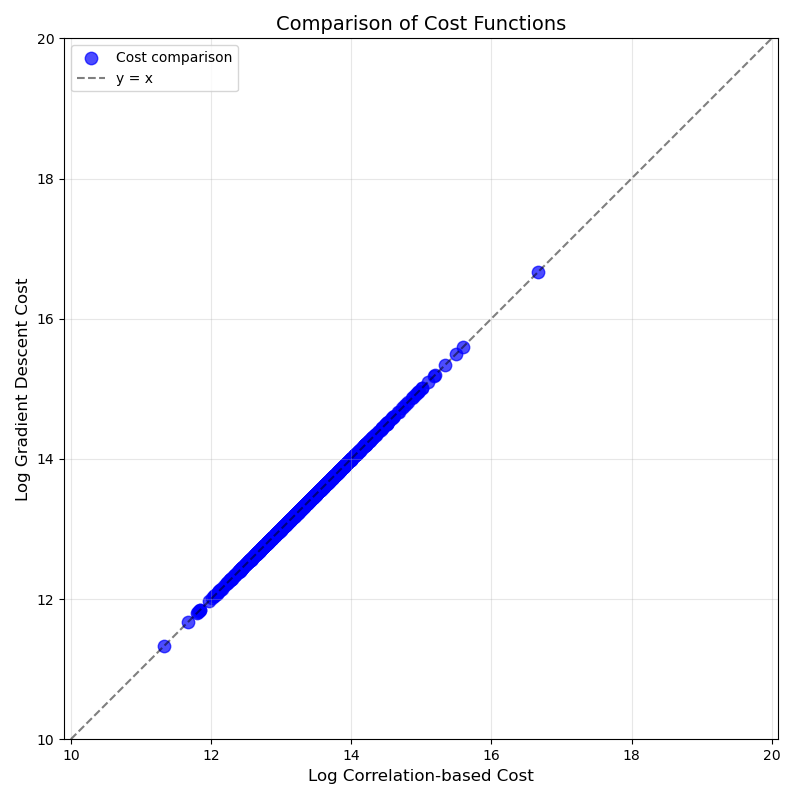
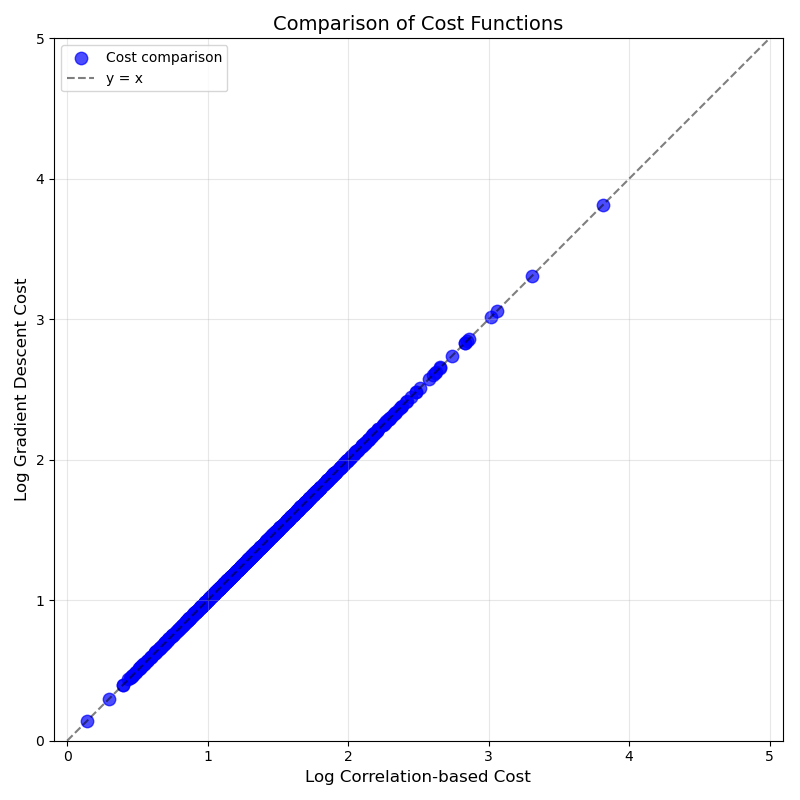
rescaling

diff --git a/simulations/make_figure.py b/simulations/make_figure.py
@@ -5,6 +5,7 @@ import ecoattention.memory as memory
 from generate import SyntheticDataGenerator
 import matplotlib.pyplot as plt
 from mpl_toolkits.axes_grid1 import make_axes_locatable
+
 # Set the random seed for reproducibility
 torch.manual_seed(42)
 L = 100
@@ -14,7 +15,7 @@ generator = SyntheticDataGenerator(
     D_v=10, 
     D_k=10, 
     rho=0.5, 
-    sim=0.5, 
+    sim=0.9, 
     device='cpu'
 )
 
@@ -49,11 +50,12 @@ lotka_volterra_memory.compute_ecological_params()
 replicator_memory.compute_correlations(Q, V)
 replicator_memory.compute_ecological_params()
 
-fit_steps = 100000
-losses = gradient_descent_memory.fit(Q, V, lr=1e-6, n_steps=fit_steps)
-corr_loss = correlation_memory.fit(Q, V, t_max=fit_steps * 1e-6, dt=1e-6, store_losses=True)
-lv_loss = lotka_volterra_memory.fit(Q, V, t_max=fit_steps * 1e-6, dt=1e-6, store_losses=True)
-rep_loss = replicator_memory.fit(Q, V, t_max=fit_steps * 1e-6, dt=1e-6, store_losses=True)
+fit_steps = 200000
+step_size = 1e-3
+losses = gradient_descent_memory.fit(Q, V, lr=step_size, n_steps=fit_steps)
+corr_loss = correlation_memory.fit(Q, V, t_max=fit_steps * step_size, dt=step_size, store_losses=True)
+lv_loss = lotka_volterra_memory.fit(Q, V, t_max=fit_steps * step_size, dt=step_size, store_losses=True)
+rep_loss = replicator_memory.fit(Q, V, t_max=fit_steps * step_size, dt=step_size, store_losses=True)
 
 # Create figure with GridSpec
 fig = plt.figure(figsize=(18, 12))
@@ -103,14 +105,9 @@ heatmap4 = axes[1, 1].imshow(correlation_memory.A.detach().numpy(), cmap='coolwa
 divider = make_axes_locatable(axes[1, 1])
 cax = divider.append_axes("right", size="5%", pad=0.05)
 cbar = fig.colorbar(heatmap4, cax=cax, label='Interaction Strength')
-# Get the order of magnitude for scaling
-max_val = np.abs(correlation_memory.A.detach().numpy()).max()
-scale_factor = int(np.floor(np.log10(max_val)))
-if scale_factor != 0:
-    # Scale the colorbar values
-    cbar.set_ticks(cbar.get_ticks())
-    cbar.set_ticklabels([f'{x/10**scale_factor:g}' for x in cbar.get_ticks()])
-    cbar.ax.set_title(f'×10$^{scale_factor}$', pad=10)
+# Format the colorbar with decimal values
+cbar.formatter = plt.FormatStrFormatter('%.2f')
+cbar.update_ticks()
 
 axes[1, 1].set_title('E. Interaction Coefficients (A)')
 axes[1, 1].set_xlabel('Token Index')
@@ -124,7 +121,7 @@ axes[1, 2].plot(losses.detach().numpy(), label='Gradient Descent', linestyle='--
 axes[1, 2].set_title('F. Loss Comparison')
 axes[1, 2].set_xlabel('Optimization Step')
 axes[1, 2].set_ylabel('Loss')
-axes[1, 2].set_ylim(0, 50)
+axes[1, 2].set_ylim(0, 0.6)
 axes[1, 2].grid(True, linestyle='--', alpha=0.7)
 # Place legend inside the plot with padding
 axes[1, 2].legend(loc='upper right', bbox_to_anchor=(0.98, 0.98), frameon=True, framealpha=1)

diff --git a/simulations/check_cost_function.py b/simulations/check_cost_function.py
@@ -46,13 +46,10 @@ for i in range(iterations):
     results[i, 0] = np.log(corr_cost.cpu().detach().numpy())
     results[i, 1] = np.log(grad_cost.cpu().detach().numpy())
 
-
-print(results)
-
 # Create a scatter plot of correlation cost vs gradient descent cost
 plt.figure(figsize=(8, 8))
 plt.scatter(results[:, 0], results[:, 1], color='blue', alpha=0.7, s=80, label='Cost comparison')
-plt.plot([10, 20], [10, 20], 'k--', alpha=0.5, label='y = x')  # Diagonal dashed line
+plt.plot([0, 5], [0, 5], 'k--', alpha=0.5, label='y = x')  # Diagonal dashed line
 
 # Set equal aspect ratio to properly show y = x relationship
 plt.axis('equal')
@@ -65,8 +62,8 @@ plt.grid(True, alpha=0.3)
 plt.legend()
 
 # Adjust limits to ensure all points are visible with typical values between 10 and 15
-plt.xlim(10, 20)
-plt.ylim(10, 20)
+plt.xlim(0, 5)
+plt.ylim(0, 5)
 
 plt.tight_layout()
 os.makedirs('simulations/figures', exist_ok=True)

diff --git a/simulations/generate.py b/simulations/generate.py
@@ -64,9 +64,11 @@ class SyntheticDataGenerator:
         Returns:
             None: Updates the instance variable cov in-place.
         """
+        # this covariance will generate vectors with approximately unit norm
+        dim = dim or self.N
         eye = torch.eye(self.N, device=self.device)
-        V = torch.randn(self.N, self.N if dim is None else dim, device=self.device)
-        self.cov = rho * eye + (1 - rho) * V @ V.T / sqrt(self.N)
+        V = torch.randn(self.N, dim, device=self.device) / sqrt(dim)
+        self.cov = (rho * eye + (1 - rho) * V @ V.T) / self.N
     
     def generate_projections(self, sim=0):
         """
